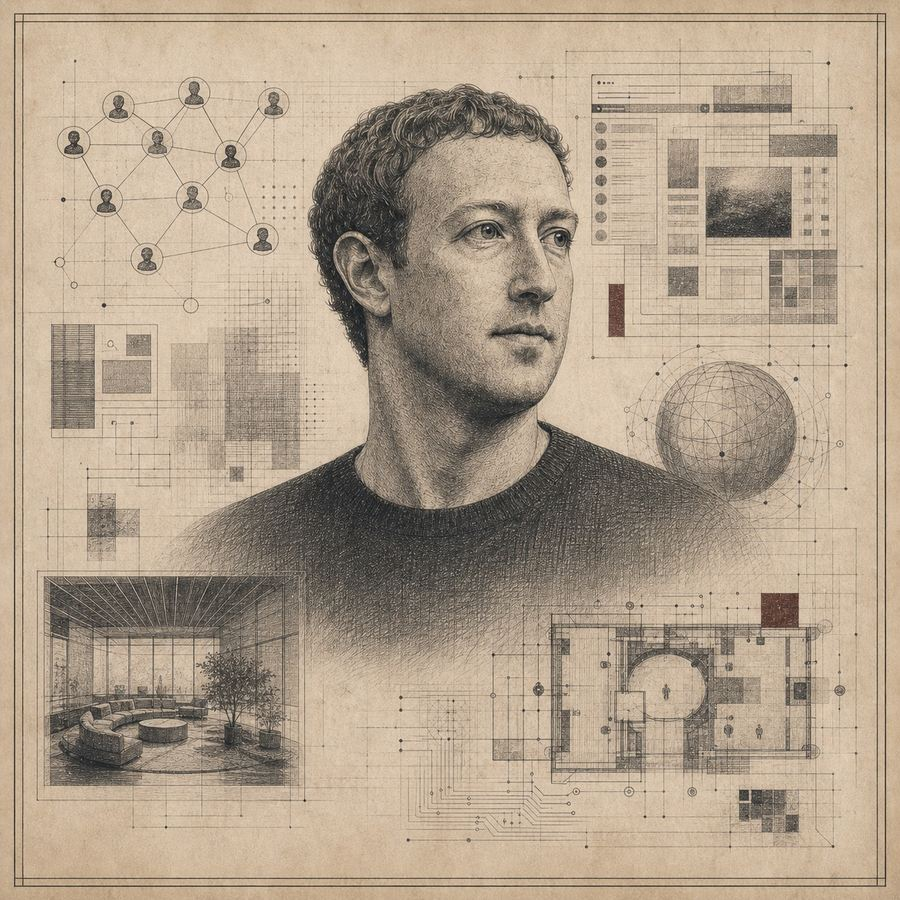
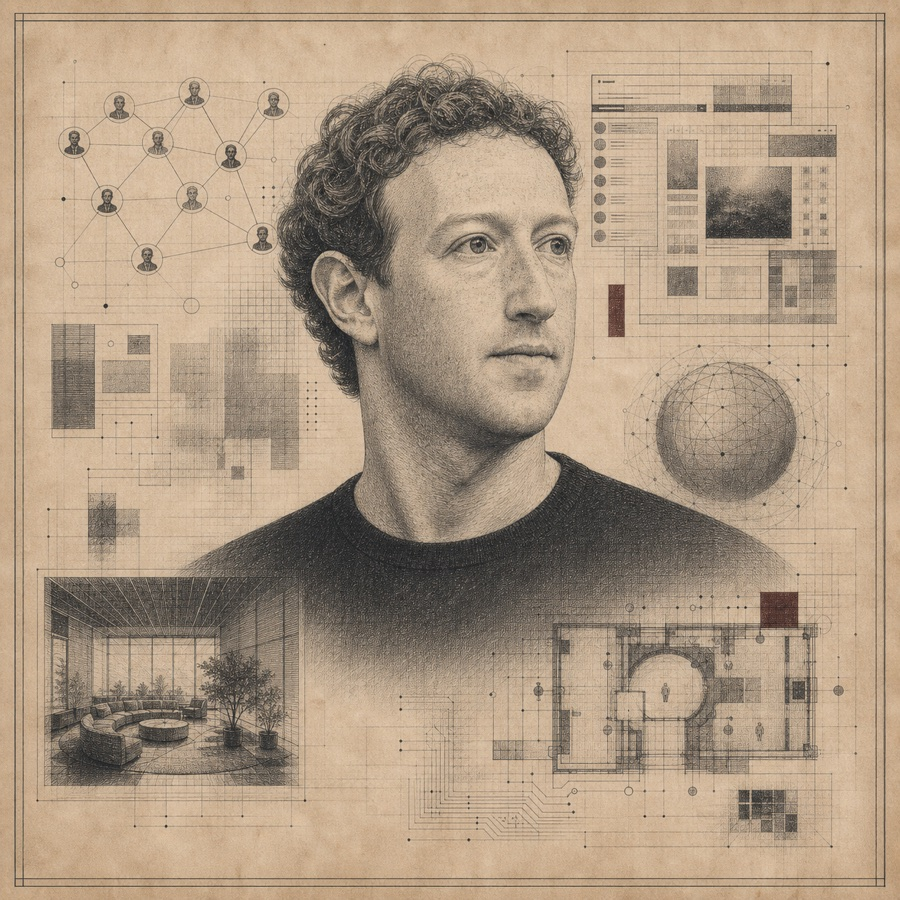
Update Zuckerberg Makers portrait

diff --git a/index.html b/index.html
@@ -638,7 +638,7 @@
   </div>
 </article><article class="below-fold-makers-person" data-below-fold-slot="portrait-card" data-below-fold-hook="mark-zuckerberg">
   <figure>
-    <span class="below-fold-image-media"><img src="assets/below-fold/makers-register/portrait-mark-zuckerberg.jpg?v=1779901923" alt="Etched portrait plate of Mark Zuckerberg with abstract social graph, interface grid, and immersive room-plan marginalia." loading="lazy" decoding="async" width="900" height="900" /></span>
+    <span class="below-fold-image-media"><img src="assets/below-fold/makers-register/portrait-mark-zuckerberg.jpg?v=1779969295" alt="Etched portrait plate of Mark Zuckerberg with abstract social graph, interface grid, and immersive room-plan marginalia." loading="lazy" decoding="async" width="900" height="900" /></span>
     <figcaption><span>04</span>Mark Zuckerberg</figcaption>
   </figure>
   <div>